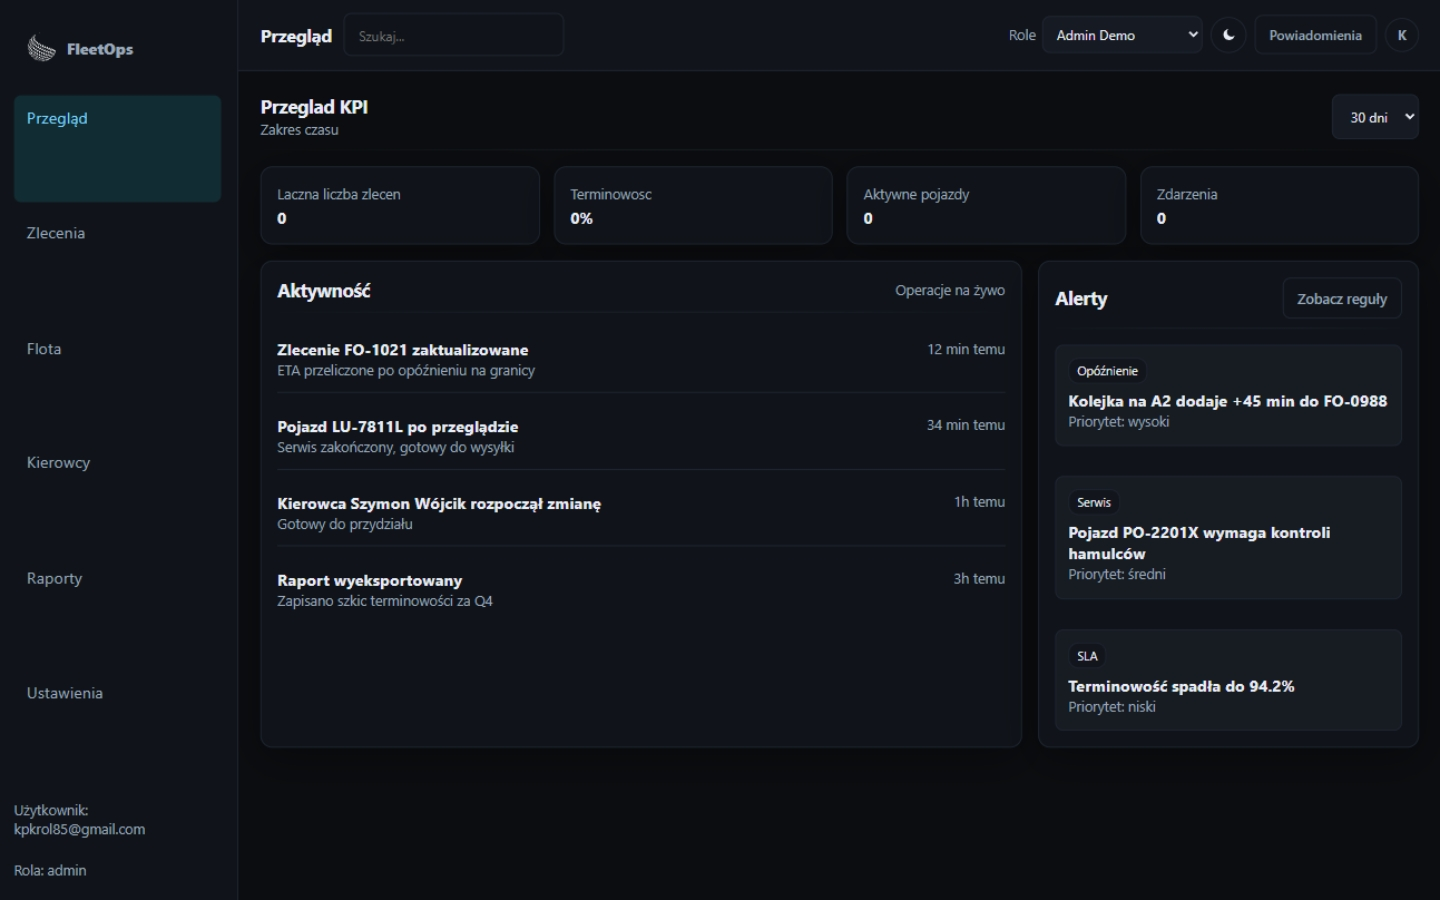
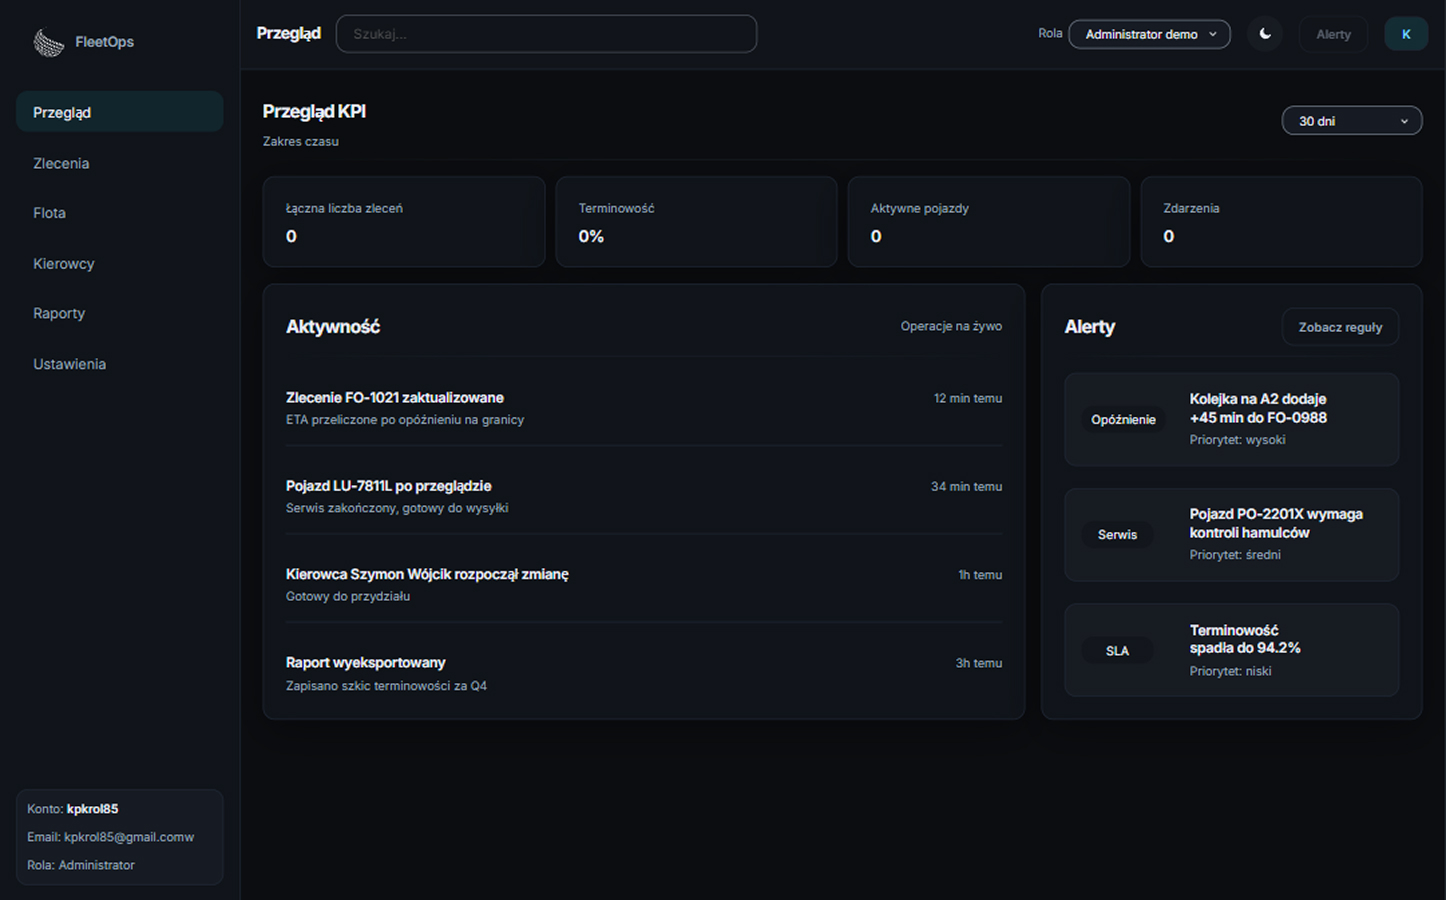
Record accessibility verification and refresh theme hero sources
* document limited NVDA smoke-check evidence across accessibility records
* align README, audit, and changelog wording with completed manual AT verification
* preserve the existing accessibility assurance limits and 8/10 readiness rating
* update light and dark hero source images for theme-specific presentation

diff --git a/AUDIT.md b/AUDIT.md
@@ -42,7 +42,7 @@ No unresolved P0, P1 or P2 finding remains. The development-dependency advisorie
 ### Verification limitations
 
 - The original audit did not execute its own smoke suite or production build. Subsequent repository follow-ups did execute the current production build and browser suite; those later results are evidence for the current source, not a retroactive change to what the original audit executed.
-- The 2026-08-11 accessibility follow-up verified representative contrast, keyboard behavior, focus, roles, ARIA state/relationships and live-region DOM updates in Playwright Chromium. It did not execute a real screen reader or other external assistive technology, so actual AT announcements remain pending manual confirmation.
+- The 2026-08-11 accessibility follow-up verified representative contrast, keyboard behavior, focus, roles, ARIA state/relationships and live-region DOM updates in Playwright Chromium. That automated pass did not execute a real screen reader or other external assistive technology. A separate limited manual NVDA smoke check (Windows 11, Google Chrome, NVDA version not recorded) was performed afterwards by the project owner and passed for the scope it exercised — general page reading and application route announcements — so basic real AT behavior is now evidenced, while comprehensive AT scenario coverage across all components, screen readers and browsers is not.
 - The accessibility browser pass used the configured `Desktop Chrome` environment only. It is not evidence of cross-browser accessibility coverage or exhaustive coverage of every possible component state.
 - No live URL was supplied to this audit and no deployed environment was inspected. `README.md` and `CHANGELOG.md` record a manual Netlify CLI deployment and provider-side form verification performed by the project owner; that is repository documentation, and this audit neither confirms nor contradicts it.
 - Third-party availability and delivery guarantees for the contact form provider are outside the scope of a repository audit.
@@ -78,7 +78,7 @@ None detected.
 
 ## 7. Extra quality improvements
 
-None currently recorded. The former contrast and assistive-technology verification improvement is closed by the maintained browser/contrast record in `docs/ACCESSIBILITY-VERIFICATION.md`, which explicitly preserves real manual AT testing as a pending limitation rather than claiming it was completed.
+None currently recorded. The former contrast and assistive-technology verification improvement is closed by the maintained browser/contrast record in `docs/ACCESSIBILITY-VERIFICATION.md`, which now also records a limited manual NVDA smoke check and keeps broader manual AT scenario coverage as an explicit assurance limitation rather than claiming it was completed.
 
 ## 8. Current readiness conclusion
 
@@ -86,7 +86,7 @@ None currently recorded. The former contrast and assistive-technology verificati
 
 No critical or important finding remains. Every defect from the previous audit was closed at the source rather than documented away: the duplicate page-rendering path was deleted, the application shell gained a `main` landmark, drawer semantics became viewport-conditional, the shell breakpoints were unified, the offline queue was replaced with an honest rejection, the contact form became a real submission path reconciled with the privacy policy, unsupported public claims were reframed, the unreachable error page was restored by removing the SPA catch-all, collapsed accordion panels were hidden from assistive technology, the undefined design token was resolved, and repository hygiene was put under `.gitignore` and `.gitattributes`. All three previously optional improvements — the offline fallback document, the build-derived runtime-asset precache and the extended CSP — were implemented.
 
-No unresolved P0, P1 or P2 finding remains. Representative contrast and browser-observable accessibility behavior now have repository evidence. Real manual assistive-technology behavior, cross-browser behavior and the live environment remain verification limits and reasons not to overstate the project's assurance level, but they are not active implementation findings.
+No unresolved P0, P1 or P2 finding remains. Representative contrast and browser-observable accessibility behavior now have repository evidence, and a limited manual NVDA smoke check adds basic real screen-reader evidence for general page reading and route announcements. Comprehensive manual assistive-technology scenario coverage, cross-browser behavior and the live environment remain verification limits and reasons not to overstate the project's assurance level, but they are not active implementation findings.
 
 ## 9. Senior rating
 
@@ -94,4 +94,4 @@ No unresolved P0, P1 or P2 finding remains. Representative contrast and browser-
 
 Judged as a vanilla, frontend-only portfolio SaaS demo, this is now a strong implementation with an unusually disciplined relationship between its code, its tests and its documentation. The architecture has one owner for every concern: one document per public route, one module graph behind one entry, one CSS source tree, one service-worker source whose precache is generated from the build that produced the assets and which fails the build when the two disagree. The interface no longer claims anything the implementation cannot do — disabled controls say why, offline rejections say the change was not saved, public figures are marked illustrative, and the contact form confirms only what the provider accepted while keeping a working no-JavaScript path. The README describes the executed system precisely enough to audit against, including the parts that are inert.
 
-The rating stops at 8 rather than higher for reasons of assurance breadth, not an unresolved implementation finding. Representative contrast and browser-observable accessibility behavior are now evidenced, but real manual assistive-technology behavior, cross-browser coverage and the live deployment are not. The audit's original 29-test suite evidence was supplied from the project owner's machine rather than executed during the audit; later verified follow-ups do not by themselves change the rating.
+The rating stops at 8 rather than higher for reasons of assurance breadth, not an unresolved implementation finding. Representative contrast and browser-observable accessibility behavior are now evidenced, and a limited manual NVDA smoke check evidences basic real screen-reader behavior, but comprehensive manual assistive-technology scenario coverage, cross-browser coverage and the live deployment are not. The audit's original 29-test suite evidence was supplied from the project owner's machine rather than executed during the audit; later verified follow-ups do not by themselves change the rating.

diff --git a/docs/ACCESSIBILITY-VERIFICATION.md b/docs/ACCESSIBILITY-VERIFICATION.md
@@ -2,9 +2,9 @@
 
 **Verification date:** 2026-08-11
 
-**Scope:** representative rendered contrast, keyboard operation, focus management, and browser-observable accessibility semantics
+**Scope:** representative rendered contrast, keyboard operation, focus management, and browser-observable accessibility semantics, plus a limited manual NVDA smoke check
 
-**Environment:** Windows; Node.js 22.14.0; npm 10.9.2; Playwright 1.60.0 `Desktop Chrome` using the bundled Chromium headless shell (revision 1223)
+**Automated environment:** Windows; Node.js 22.14.0; npm 10.9.2; Playwright 1.60.0 `Desktop Chrome` using the bundled Chromium headless shell (revision 1223)
 
 **Themes:** light and dark
 
@@ -12,7 +12,9 @@
 
 This record is evidence for the representative checks described below. It is not a declaration of formal WCAG conformance, an accessibility certification, or proof of behavior in every browser and component state.
 
-The browser checks inspect rendered styles, keyboard behavior, focus, roles, accessible names, ARIA states and relationships, and live-region DOM updates. No real screen reader or other external assistive technology was executed during this verification. Manual AT verification therefore remains pending and must identify the actual tool, version, browser, operating system, and observed announcements when it is performed.
+The browser checks inspect rendered styles, keyboard behavior, focus, roles, accessible names, ARIA states and relationships, and live-region DOM updates. No real screen reader or other external assistive technology was executed during that automated/browser pass itself.
+
+A separate manual screen-reader smoke check has since been performed by the project owner with NVDA on Windows 11 in Google Chrome; its confirmed environment, scope, and observations are recorded in [Manual assistive-technology verification](#manual-assistive-technology-verification). That check was a limited sanity pass, not a comprehensive assistive-technology audit, so it does not establish announcement behavior for every component or scenario, for every screen reader, or for every browser.
 
 ## Method
 
@@ -82,7 +84,24 @@ The maintained contrast test covers 48 rendered evidence rows. Set `FLEETOPS_ACC
 - **Toasts:** stable polite `role="status"` and assertive `role="alert"` regions expose `aria-live` and `aria-atomic`; representative success and permission-denial updates reach the correct region.
 - **Focus visibility:** the representative primary action retained a solid 2 px computed outline; its light/dark contrast is recorded above.
 
-These observations establish browser/DOM behavior only. They do not prove that a particular screen reader announces the content with specific wording or timing.
+These observations establish browser/DOM behavior only. They do not prove that a particular screen reader announces the content with specific wording or timing. Separately observed real screen-reader output is recorded below and is kept distinct from this automated evidence.
+
+## Manual assistive-technology verification
+
+**Type:** manual NVDA smoke check (limited scope), performed by the project owner
+
+**Environment:** Windows 11; NVDA (version not recorded); Google Chrome
+
+**Result:** Pass for the exercised smoke-check scope only.
+
+Observed during the session:
+
+- NVDA read FleetOps page content; general page reading worked throughout the check.
+- Application route announcements were audibly exposed by NVDA; the confirmed examples were `Widok: Zlecenia` and `Widok: Flota`.
+- Speech could sometimes continue finishing previously started content when moving quickly to another element, producing a short perceived delay. This was observed as normal screen-reader speech-queue behavior during the session and was not confirmed as a FleetOps defect.
+- No blocking accessibility failure was observed during this check.
+
+Scope actually exercised: general page reading and application route announcements. This was a sanity/smoke check rather than a systematic audit — it did not systematically cover all toast variants, form error announcements, modal or drawer entry and exit announcements, accordion state wording, skip-link announcements, or every interactive component. The result covers NVDA with Google Chrome on Windows 11 only, and because the NVDA version was not recorded it is not tied to a specific NVDA release.
 
 ## Confirmed corrections
 
@@ -106,6 +125,10 @@ No confirmed accessibility defect is intentionally left unresolved by this pass.
 - Final `npm run test:smoke`: 39/39 passed against a fresh production build.
 - Final `git diff --check`: passed.
 
-## Remaining manual step
+## Additional assurance opportunities
 
-Run a separate real assistive-technology pass, for example with the project owner's chosen screen reader, against the same representative flows. Record the actual AT/browser/OS versions and observed output for route announcements, polite and assertive toasts, field errors, modal/drawer entry and exit, accordion state, and skip-link navigation. Until that happens, real AT verification remains pending.
+Basic real assistive-technology verification is no longer outstanding: the manual NVDA smoke check recorded above passed for the scope it exercised, and no confirmed accessibility defect follows from it. The items below are optional ways to widen assistive-technology assurance, not unresolved defects.
+
+- Extend the same NVDA/Chrome pass across the remaining representative flows — polite and assertive toasts, field errors, modal and drawer entry and exit, accordion state, and skip-link navigation — and record the observed output for each.
+- Record the NVDA version used, so a future result can be tied to a specific release.
+- Repeat a comparable manual pass with other screen reader, browser, and operating-system combinations, which the current evidence does not cover.

diff --git a/CHANGELOG.md b/CHANGELOG.md
@@ -6,6 +6,7 @@ All significant changes to this project are documented in this file.
 
 ### Changed
 
+- Recorded the project owner's manual screen-reader smoke check in `docs/ACCESSIBILITY-VERIFICATION.md`, superseding the "manual AT verification remains pending" statement of the earlier accessibility entry below. The confirmed environment was Windows 11, NVDA and Google Chrome; the NVDA version was not recorded and is not invented anywhere in the documentation. The record gained a `Manual assistive-technology verification` section stating that NVDA read the page content, that application route announcements were audibly exposed with `Widok: Zlecenia` and `Widok: Flota` as the confirmed examples, that speech sometimes continued finishing previously started content when moving quickly between elements — observed as normal screen-reader speech-queue behavior during the session and not confirmed as a FleetOps defect — and that no blocking accessibility failure was observed. The result is recorded as a Pass for the exercised smoke-check scope only: general page reading and route announcements, explicitly not all toast variants, form error announcements, modal/drawer announcements, accordion state wording, skip-link announcements or every interactive component, and NVDA/Chrome/Windows 11 only. The assurance boundary now separates that manual evidence from the automated browser/contrast evidence instead of stating that no real screen reader was ever executed, and the former `Remaining manual step` section became `Additional assurance opportunities`, describing wider AT scenario coverage, recording an NVDA version and other screen reader/browser combinations as optional assurance rather than an unresolved defect. `README.md` (PL and EN) and the `AUDIT.md` verification limitations, readiness conclusion and rating rationale were reworded for the same distinction; the 8/10 rating, the readiness status, every recorded contrast ratio, keyboard/ARIA result and executed-check result are unchanged, and the repository still declares no formal WCAG conformance or accessibility certification. Documentation only — no runtime source, styles, tests, build configuration, dependencies or generated output changed.
 - Completed the repository's representative accessibility verification pass without making a conformance claim. A new Playwright file measures 48 rendered text, gradient, focus-indicator and control-boundary combinations across the light and dark themes using computed styles and standard sRGB luminance, and adds missing keyboard/browser contracts for the public skip link, mobile navigation, accordion, route status region and modal focus containment/return. The pass confirmed and locally corrected four causes: the light accent scale now clears text and primary-action contrast, form controls use a theme-aware visible boundary, the light danger token clears normal-text contrast while dark retains its passing value, and public `main#main-content` becomes the focus destination of its skip link. `docs/ACCESSIBILITY-VERIFICATION.md` records exact representative ratios, methodology, browser/ARIA results and limitations. The production build, CSS-variable QA, focused 3-test file and complete 39-test suite pass. No real screen reader was executed; manual AT verification remains pending, and the README continues to reject formal WCAG compliance or certification claims.
 - Split the public runtime from the demo application at the existing hash boundary: `scripts/main.js` now reuses one dynamic import of `scripts/router.js` only for `#/login`, `#/app` and `#/app/*`, and ignores an obsolete resolution after a newer hash transition while keeping public initialization and legacy redirects synchronous. The service-worker build plugin follows the emitted chunk graph from the maintained documents, including dynamic imports and chunk CSS, so the lazy application runtime remains in the sorted, build-derived precache and cache revision without a maintained generated filename or hash; focused Playwright coverage proves the online request boundary, direct guarded entries, stale-route safety and first-use offline loading with Chromium's HTTP cache disabled.
 - Resolved the final active audit finding, `P2-01`, without a broad tooling migration: the direct development dependency `sharp` moved from `^0.34.5` to `^0.35.3`, while the existing compatible Vite dependency ranges now resolve `postcss` from `8.5.14` to `8.5.26` and `nanoid` from `3.3.11` to `3.3.18`; Vite remains `7.3.6`. The `optimize-images.js` API path (`avif`, `webp`, `jpeg`, `png` and `toFile`) completed successfully with Sharp 0.35.3, and the two resulting AVIF byte changes were intentionally excluded so this dependency remediation does not regenerate tracked image content. A clean `npm ci`, the production build, CSS-variable QA and all 32 Playwright smoke tests passed, and the final `npm audit` reported zero vulnerabilities across all severities.

diff --git a/README.md b/README.md
@@ -187,7 +187,7 @@ W kodzie zaimplementowano konkretne elementy dostępności:
 - powiązanie pól formularzy z błędami przez `aria-describedby` i `aria-invalid`;
 - uwzględnienie `prefers-reduced-motion` przy przewijaniu i wybranych animacjach.
 
-Reprezentatywne pomiary renderowanego kontrastu w obu motywach oraz przeglądarkowa weryfikacja klawiatury, fokusu i ARIA są zapisane w [`docs/ACCESSIBILITY-VERIFICATION.md`](docs/ACCESSIBILITY-VERIFICATION.md). Rekord wyraźnie oddziela te dowody od testów prawdziwą technologią asystującą: podczas tego przebiegu nie uruchomiono czytnika ekranu, więc manualna weryfikacja AT pozostaje do wykonania przez właściciela projektu.
+Reprezentatywne pomiary renderowanego kontrastu w obu motywach oraz przeglądarkowa weryfikacja klawiatury, fokusu i ARIA są zapisane w [`docs/ACCESSIBILITY-VERIFICATION.md`](docs/ACCESSIBILITY-VERIFICATION.md). Rekord wyraźnie oddziela te dowody od testów prawdziwą technologią asystującą. Właściciel projektu wykonał dodatkowo ograniczony manualny smoke check z czytnikiem ekranu NVDA (Windows 11, Google Chrome, wersja NVDA nieodnotowana), który zakończył się wynikiem pozytywnym dla sprawdzonego zakresu: ogólnego odczytu strony oraz komunikatów o zmianie widoku aplikacji. Nie było to pełne badanie technologią asystującą — szersze scenariusze AT pozostają opcjonalnym rozszerzeniem dowodów, a szczegóły zakresu i obserwacji zawiera powyższy rekord.
 
 Repozytorium nie deklaruje formalnej zgodności WCAG, certyfikacji dostępności ani pełnej zgodności.
 
@@ -448,7 +448,7 @@ The code implements specific accessibility elements:
 - form fields associated with errors through `aria-describedby` and `aria-invalid`;
 - `prefers-reduced-motion` support for scrolling and selected animations.
 
-Representative rendered-contrast measurements in both themes and browser verification of keyboard, focus, and ARIA behavior are recorded in [`docs/ACCESSIBILITY-VERIFICATION.md`](docs/ACCESSIBILITY-VERIFICATION.md). The record explicitly separates that evidence from real assistive-technology testing: no screen reader was executed during this pass, so manual AT verification remains for the project owner.
+Representative rendered-contrast measurements in both themes and browser verification of keyboard, focus, and ARIA behavior are recorded in [`docs/ACCESSIBILITY-VERIFICATION.md`](docs/ACCESSIBILITY-VERIFICATION.md). The record explicitly separates that evidence from real assistive-technology testing. The project owner additionally performed a limited manual NVDA smoke check (Windows 11, Google Chrome, NVDA version not recorded), which passed for the scope it exercised: general page reading and application route announcements. It was not a full assistive-technology audit — broader AT scenarios remain an optional extension of the evidence, and the record above states the exact scope and observations.
 
 The repository does not declare formal WCAG compliance, accessibility certification, or full conformance.
 
